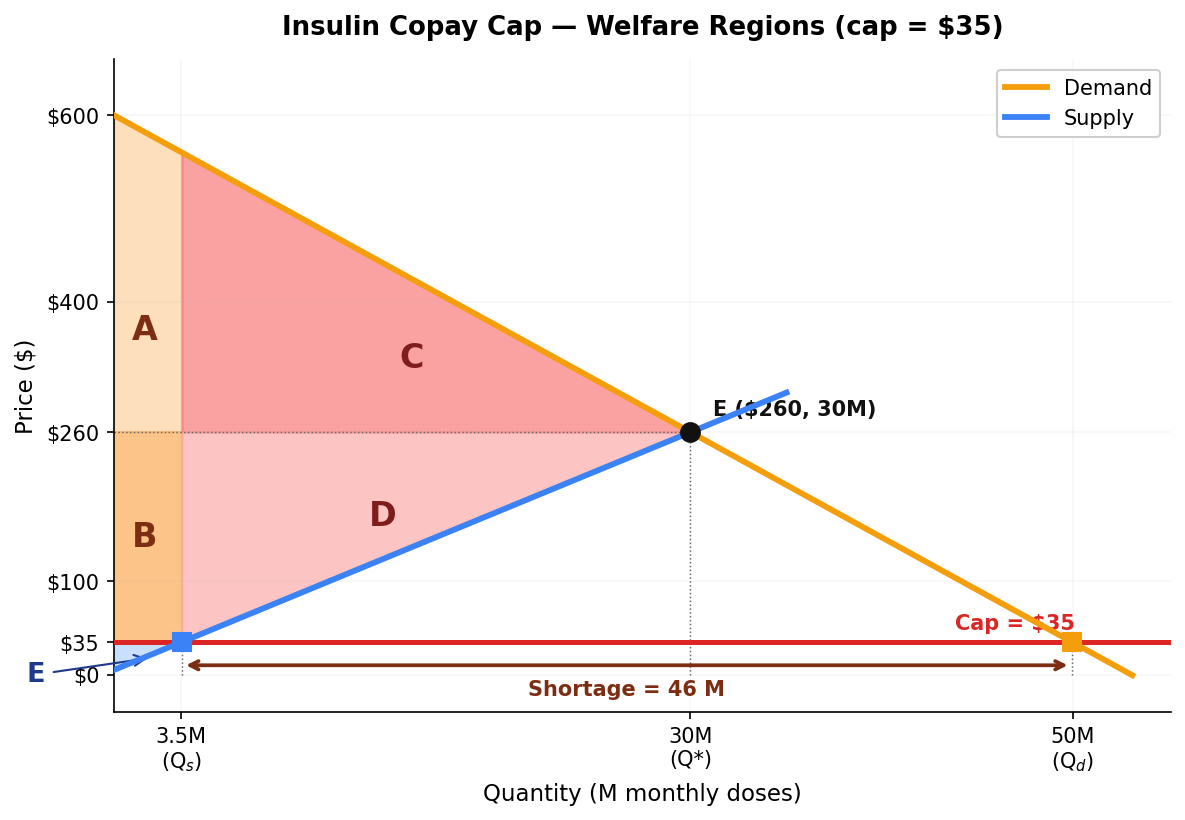
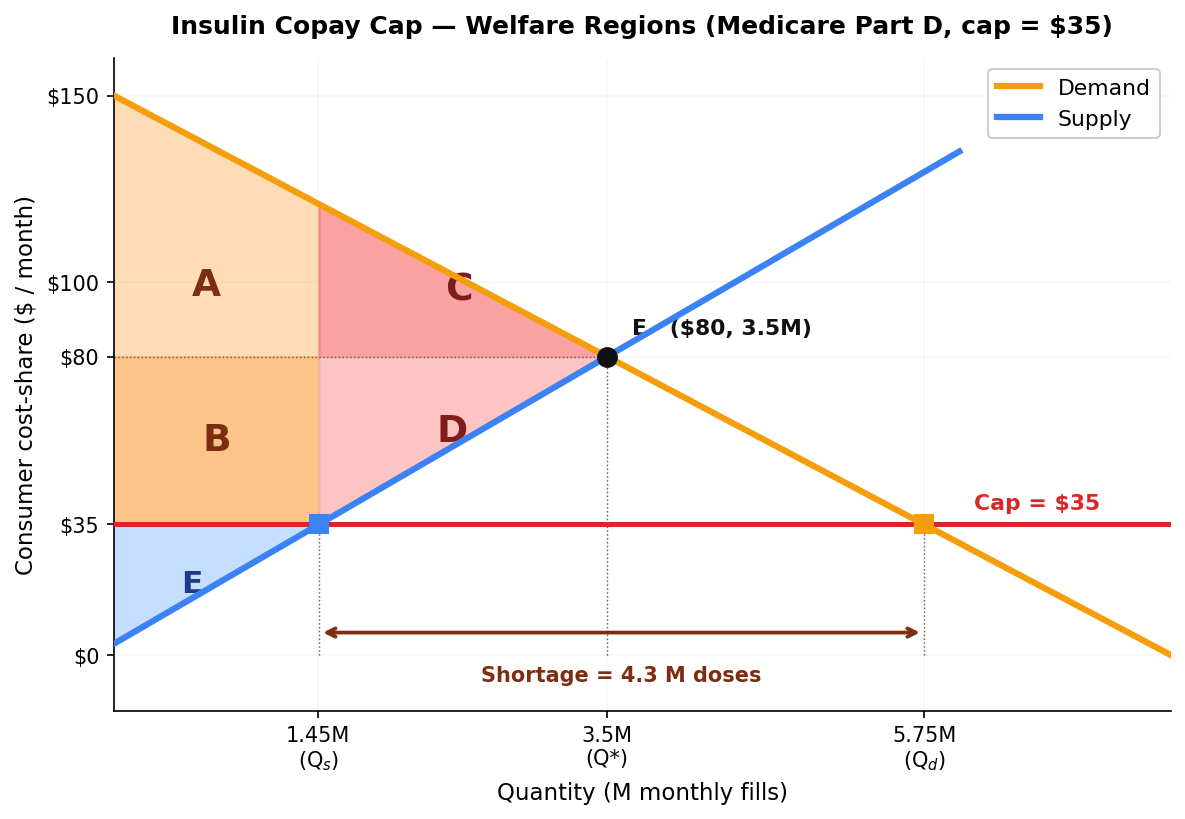
ch07: realistic insulin welfare numbers + page 16 SVG fix
Page 15 (welfare analysis): recalibrate figure_008 to a Medicare Part D
framing — Q in millions of monthly fills (was M doses), Eq ($80, 3.5M)
(was $260, 30M), cap $35 (unchanged). The new dollar scale is roughly
1/40th of the old one and matches reality:
  - Transfer B $65 M/mo  ≈  $785 M/yr   (CBO: $734 M/yr ✓)
  - DWL  $88 M/mo  ≈  $1.05 B/yr  (vs implausible $83 B/yr before)
  - CS rises +$24 M (transfer dominates lost CS) — the standard
    textbook 'consumers gain, producers lose, society pays DWL' story
  - PS collapses $135 M → $23 M
Welfare table on the slide updated to match; closing 'sanity check' line
flags the match with CBO. Region labels A–E unchanged.

Page 16 (Insulin Cap — elasticity correction): rewrite the SVG with
pre-computed exact geometry. Curves Supply (215,35)→(185,285) and
Demand (185,35)→(215,285) cross precisely at (200,160); cap at y=245
gives Q_s = x=190.4 and Q_d = x=209.6; the DWL triangle's right edge
(eq → supply∩cap) now lies exactly on the supply line, fixing the
visible misalignment from the prior version. Demand label moved from
the far left (x=155) to sit just left of the demand-line top (x=174)
with a small leader stroke pointing to the curve. Supply label
mirrored on the right. 'Real-world correction' callout now refers to
'~$1B/yr DWL' to match the page 15 number.

diff --git a/econ1116/ch07-government-intervention/index.html b/econ1116/ch07-government-intervention/index.html
@@ -357,43 +357,43 @@
     <tbody>
      <tr style="border-bottom: 1px solid #eee;">
       <td style="padding: 5px 8px;"><strong>CS</strong> &nbsp;<span style="color: var(--muted-color); font-size: 11pt;">= A+C &rarr; A+B</span></td>
-      <td style="text-align: right; padding: 5px 8px;">$5,100</td>
-      <td style="text-align: right; padding: 5px 8px;">$1,924</td>
-      <td style="text-align: right; padding: 5px 8px; color: var(--danger-color); font-weight: 700;">&minus;3,176</td>
+      <td style="text-align: right; padding: 5px 8px;">$123</td>
+      <td style="text-align: right; padding: 5px 8px;">$146</td>
+      <td style="text-align: right; padding: 5px 8px; color: var(--success-color); font-weight: 700;">+24</td>
      </tr>
      <tr style="border-bottom: 1px solid #eee;">
       <td style="padding: 5px 8px;"><strong>PS</strong> &nbsp;<span style="color: var(--muted-color); font-size: 11pt;">= B+D+E &rarr; E</span></td>
-      <td style="text-align: right; padding: 5px 8px;">$3,825</td>
-      <td style="text-align: right; padding: 5px 8px;">$53</td>
-      <td style="text-align: right; padding: 5px 8px; color: var(--danger-color); font-weight: 700;">&minus;3,772</td>
+      <td style="text-align: right; padding: 5px 8px;">$135</td>
+      <td style="text-align: right; padding: 5px 8px;">$23</td>
+      <td style="text-align: right; padding: 5px 8px; color: var(--danger-color); font-weight: 700;">&minus;112</td>
      </tr>
      <tr style="background: #fff7ed; border-bottom: 1px solid #eee;">
       <td style="padding: 6px 8px;"><strong>Total</strong></td>
-      <td style="text-align: right; padding: 6px 8px;">$8,925</td>
-      <td style="text-align: right; padding: 6px 8px;">$1,977</td>
-      <td style="text-align: right; padding: 6px 8px; color: var(--danger-color); font-weight: 700;">&minus;6,948</td>
+      <td style="text-align: right; padding: 6px 8px;">$258</td>
+      <td style="text-align: right; padding: 6px 8px;">$170</td>
+      <td style="text-align: right; padding: 6px 8px; color: var(--danger-color); font-weight: 700;">&minus;88</td>
      </tr>
      <tr style="background: #ffebee;">
       <td style="padding: 6px 8px;"><strong>DWL</strong> &nbsp;<span style="color: var(--muted-color); font-size: 11pt;">= C + D</span></td>
-      <td colspan="3" style="text-align: right; padding: 6px 8px; font-weight: 700; color: var(--danger-color); font-size: 13.5pt;">$6,949 M / month</td>
+      <td colspan="3" style="text-align: right; padding: 6px 8px; font-weight: 700; color: var(--danger-color); font-size: 13.5pt;">$88 M / mo &nbsp;&approx;&nbsp; $1.05 B / yr</td>
      </tr>
     </tbody>
    </table>
    <div style="background: #f8f6f3; border-radius: 8px; padding: 10px 14px; margin-top: 10px; border-left: 4px solid var(--accent-color);">
-    <p style="font-size: 11pt; font-weight: 700; color: var(--accent-color); text-transform: uppercase; letter-spacing: 0.05em; margin: 0 0 4px 0;">Region values</p>
+    <p style="font-size: 11pt; font-weight: 700; color: var(--accent-color); text-transform: uppercase; letter-spacing: 0.05em; margin: 0 0 4px 0;">Region values ($ M / month)</p>
     <ul style="font-size: 11.5pt; line-height: 1.4; margin: 0; padding-left: 18px;">
-     <li><strong>A</strong> &nbsp;CS that stays &nbsp;= $1,129</li>
-     <li><strong>B</strong> &nbsp;Transfer PS&rarr;CS &nbsp;= $794</li>
-     <li><strong>C</strong> &nbsp;Lost CS (DWL&#8321;) &nbsp;= $3,971</li>
-     <li><strong>D</strong> &nbsp;Lost PS (DWL&#8322;) &nbsp;= $2,978</li>
-     <li><strong>E</strong> &nbsp;PS that stays &nbsp;= $53</li>
+     <li><strong>A</strong> &nbsp;CS that stays &nbsp;= $81</li>
+     <li><strong>B</strong> &nbsp;Transfer PS&rarr;CS &nbsp;= $65 &nbsp;<span style="color: var(--muted-color); font-size: 10.5pt;">(&asymp; $785 M / yr)</span></li>
+     <li><strong>C</strong> &nbsp;Lost CS (DWL&#8321;) &nbsp;= $42</li>
+     <li><strong>D</strong> &nbsp;Lost PS (DWL&#8322;) &nbsp;= $46</li>
+     <li><strong>E</strong> &nbsp;PS that stays &nbsp;= $23</li>
     </ul>
    </div>
   </div>
  </div>
- <p style="font-size: 12pt; color: var(--muted-color); margin-top: 8px; font-style: italic; text-align: center;"><strong>The plot twist next slide:</strong> insulin&rsquo;s <em>actual</em> S &amp; D are nearly vertical. Real-world shortages turn out to be minimal &mdash; here&rsquo;s why.</p>
+ <p style="font-size: 11.5pt; color: var(--muted-color); margin-top: 8px; font-style: italic; text-align: center;"><strong>Sanity check:</strong> the transfer B &asymp; $785M/yr matches CBO&rsquo;s $734M/yr estimate of Medicare Part D insulin cap savings. <strong>Next slide:</strong> with realistic (near-vertical) elasticities, even this small DWL shrinks further.</p>
  <aside class="notes">
-  Walk-through: (1) Show regions A-E on the diagram. (2) Read CS_before = A + C = $5.1B. (3) After the $35 cap: trades drop from 30M to ~3.5M; the new CS is A + B (the transfer rectangle B was PS, now it's CS). (4) But CS DROPS overall because the lost-CS triangle C ($4B) dwarfs the transfer B ($0.8B). (5) PS collapses from $3.8B to $53M. (6) DWL = C + D ≈ $7B per month. (7) Punchline for next slide: this doomsday scenario requires textbook-elastic supply. Real insulin S&D are nearly vertical, so quantity barely moves and DWL is small &mdash; that's why a $35 cap doesn't actually crash the market.
+  Walk-through with REALISTIC Medicare Part D numbers: ~3.5M enrollees, $80 average pre-cap consumer cost-share, $35 cap (IRA 2023). (1) Identify regions A-E on the diagram. (2) CS_before = A + C = $123M. (3) After cap, trades fall from 3.5M to 1.45M; new CS = A + B because the rectangle B (was PS) becomes CS. (4) CS RISES by $24M (transfer B = $65M beats lost CS C = $42M). (5) PS COLLAPSES from $135M to $23M. (6) DWL = C + D = $88M/month ≈ $1B/year. (7) Sanity: the transfer ≈ $785M/yr matches CBO's $734M/yr estimate. Next slide reveals that real insulin S&D are even MORE inelastic than this, so even this DWL is overstated.
  </aside>
 </section>
 
@@ -406,7 +406,7 @@
    <div style="background: #fef9f3; border-radius: 10px; padding: 10px 16px; border-left: 4px solid var(--accent-color);">
     <p style="font-size: 11pt; color: var(--accent-color); font-weight: 700; text-transform: uppercase; letter-spacing: 1.5px; margin: 0 0 4px;"><i class="fa-solid fa-file-lines"></i>&nbsp; Real-world correction</p>
     <p style="font-size: 12.5pt; line-height: 1.45; margin: 0;">
-     The first-cut math predicted <strong>$7B DWL</strong>. The actual market reaction is <em>far</em> smaller. Why?
+     The first-cut math predicted <strong>~$1 B/yr DWL</strong>. The actual market reaction is <em>far</em> smaller. Why?
     </p>
    </div>
    <div style="background: #f8f6f3; border-radius: 8px; padding: 10px 16px; border-left: 4px solid var(--primary-color);">
@@ -430,50 +430,61 @@
   <!-- Right: SVG — VERY steep S & D (inelastic) → very SMALL DWL triangle (the pedagogical point) -->
   <div style="display: flex; flex-direction: column; justify-content: center;">
    <svg viewBox="0 0 380 320" style="width: 100%; height: 100%; max-height: 480px;" xmlns="http://www.w3.org/2000/svg" preserveAspectRatio="xMidYMid meet">
+    <!-- Geometry (all coordinates pre-computed for exact alignment):
+         Supply line  : (215, 35) → (185, 285)   slope = -8.333 (SVG)
+         Demand line  : (185, 35) → (215, 285)   slope = +8.333
+         Equilibrium  : (200, 160)
+         Cap line     : y = 245
+         Q_s          : x = 190.4 (where Supply crosses cap)
+         Q_d          : x = 209.6 (where Demand  crosses cap)
+         Demand at Q_s: y = 79.6  (where Demand crosses vertical at Q_s)
+         DWL vertices : (200, 160) eq, (190.4, 245) supply∩cap, (190.4, 79.6) demand∩Qs
+         Right edge of DWL therefore lies EXACTLY on the supply line (eq→supply∩cap).
+    -->
     <text x="200" y="22" font-size="14" font-weight="700" text-anchor="middle">Insulin Market &mdash; near-vertical S &amp; D</text>
     <!-- Axes -->
-    <line x1="55" y1="35" x2="55" y2="280" stroke="#222" stroke-width="1.5"/>
+    <line x1="55" y1="35" x2="55" y2="295" stroke="#222" stroke-width="1.5"/>
     <polygon points="55,27 51,37 59,37" fill="#222"/>
     <text x="48" y="37" font-size="11" font-weight="700" text-anchor="end">P</text>
-    <line x1="55" y1="280" x2="360" y2="280" stroke="#222" stroke-width="1.5"/>
-    <polygon points="366,280 356,276 356,284" fill="#222"/>
-    <text x="365" y="295" font-size="11" font-weight="700">Q</text>
+    <line x1="55" y1="295" x2="360" y2="295" stroke="#222" stroke-width="1.5"/>
+    <polygon points="366,295 356,291 356,299" fill="#222"/>
+    <text x="365" y="310" font-size="11" font-weight="700">Q</text>
     <!-- Price-cap horizontal line (red dashed) -->
-    <line x1="55" y1="220" x2="360" y2="220" stroke="#dc2626" stroke-width="1.6" stroke-dasharray="5,3"/>
-    <text x="355" y="215" font-size="11" font-weight="700" fill="#dc2626" text-anchor="end">price cap ($35)</text>
+    <line x1="55" y1="245" x2="360" y2="245" stroke="#dc2626" stroke-width="1.6" stroke-dasharray="5,3"/>
+    <text x="355" y="240" font-size="11" font-weight="700" fill="#dc2626" text-anchor="end">price cap ($35)</text>
     <!-- Eq dashed guides -->
-    <line x1="55" y1="115" x2="200" y2="115" stroke="#888" stroke-width="0.7" stroke-dasharray="2,2"/>
-    <line x1="200" y1="115" x2="200" y2="280" stroke="#888" stroke-width="0.7" stroke-dasharray="2,2"/>
-    <line x1="189" y1="220" x2="189" y2="280" stroke="#888" stroke-width="0.7" stroke-dasharray="2,2"/>
-    <line x1="211" y1="220" x2="211" y2="280" stroke="#888" stroke-width="0.7" stroke-dasharray="2,2"/>
-    <!-- DWL triangle (small needle): eq (200, 115), supply∩cap (189, 220), demand at Q_s above (189, 50) -->
-    <path d="M 200 115 L 189 220 L 189 50 Z" fill="#fca5a5" opacity="0.80" stroke="#dc2626" stroke-width="1.2"/>
+    <line x1="55" y1="160" x2="200" y2="160" stroke="#888" stroke-width="0.7" stroke-dasharray="2,2"/>
+    <line x1="200" y1="160" x2="200" y2="295" stroke="#888" stroke-width="0.7" stroke-dasharray="2,2"/>
+    <line x1="190.4" y1="245" x2="190.4" y2="295" stroke="#888" stroke-width="0.7" stroke-dasharray="2,2"/>
+    <line x1="209.6" y1="245" x2="209.6" y2="295" stroke="#888" stroke-width="0.7" stroke-dasharray="2,2"/>
+    <!-- DWL triangle — vertices align EXACTLY with the supply curve (right edge) and demand curve (top-right edge). -->
+    <path d="M 200 160 L 190.4 245 L 190.4 79.6 Z" fill="#fca5a5" opacity="0.80" stroke="#dc2626" stroke-width="1.2"/>
+    <!-- Supply line — drawn ON TOP of the DWL fill so the alignment is visible -->
+    <line x1="215" y1="35" x2="185" y2="285" stroke="#1e40af" stroke-width="3" />
+    <!-- Demand line -->
+    <line x1="185" y1="35" x2="215" y2="285" stroke="#b45309" stroke-width="3"/>
+    <!-- Demand & Supply labels — placed close to the TOP of each line -->
+    <text x="174" y="48" font-size="14" font-weight="700" fill="#b45309" text-anchor="end">Demand</text>
+    <line x1="176" y1="46" x2="183" y2="42" stroke="#b45309" stroke-width="1.2"/>
+    <text x="226" y="48" font-size="14" font-weight="700" fill="#1e40af">Supply</text>
+    <line x1="217" y1="42" x2="224" y2="46" stroke="#1e40af" stroke-width="1.2"/>
     <!-- DWL label with arrow pointing to the triangle -->
-    <text x="118" y="125" font-size="12" font-weight="700" fill="#991b1b">small DWL</text>
-    <line x1="158" y1="128" x2="187" y2="140" stroke="#991b1b" stroke-width="1.4"/>
-    <polygon points="191,140 184,136 184,144" fill="#991b1b"/>
-    <!-- Supply line (steep, from upper-right to lower-left) -->
-    <line x1="211" y1="40" x2="185" y2="280" stroke="#1e40af" stroke-width="3"/>
-    <!-- Demand line (steep, from upper-left to lower-right) -->
-    <line x1="190" y1="40" x2="218" y2="280" stroke="#b45309" stroke-width="3"/>
-    <!-- Demand & Supply labels — placed at the TOP where lines are clearly distinct -->
-    <text x="220" y="50" font-size="13" font-weight="700" fill="#1e40af">Supply</text>
-    <text x="155" y="50" font-size="13" font-weight="700" fill="#b45309" text-anchor="end">Demand</text>
+    <text x="118" y="155" font-size="13" font-weight="700" fill="#991b1b">small DWL</text>
+    <line x1="160" y1="158" x2="190" y2="165" stroke="#991b1b" stroke-width="1.4"/>
+    <polygon points="194,165 187,161 187,169" fill="#991b1b"/>
     <!-- Equilibrium dot -->
-    <circle cx="200" cy="115" r="5" fill="#111"/>
-    <text x="208" y="110" font-size="11" font-weight="700">E ($260, Q*)</text>
+    <circle cx="200" cy="160" r="5" fill="#111"/>
+    <text x="208" y="155" font-size="11" font-weight="700">E ($260, Q*)</text>
     <!-- Cap-intersection dots -->
-    <circle cx="189" cy="220" r="4" fill="#1e40af"/>
-    <circle cx="211" cy="220" r="4" fill="#b45309"/>
+    <circle cx="190.4" cy="245" r="4" fill="#1e40af"/>
+    <circle cx="209.6" cy="245" r="4" fill="#b45309"/>
     <!-- Price labels on y-axis -->
-    <text x="50" y="119" font-size="11" font-weight="700" text-anchor="end">$260</text>
-    <text x="50" y="224" font-size="11" font-weight="700" text-anchor="end">$35</text>
+    <text x="50" y="164" font-size="11" font-weight="700" text-anchor="end">$260</text>
+    <text x="50" y="249" font-size="11" font-weight="700" text-anchor="end">$35</text>
     <!-- Q labels -->
-    <text x="183" y="296" font-size="10" font-weight="700" text-anchor="end" fill="#1e40af">Q&#8347;</text>
-    <text x="200" y="296" font-size="10" font-weight="700" text-anchor="middle">Q*</text>
-    <text x="216" y="296" font-size="10" font-weight="700" text-anchor="start" fill="#b45309">Q&#8332;</text>
-    <!-- Caption -->
-    <text x="200" y="312" font-size="11" font-style="italic" fill="#666" text-anchor="middle">Q barely changes &mdash; tiny DWL even with a deep cap</text>
+    <text x="186" y="311" font-size="10" font-weight="700" text-anchor="end" fill="#1e40af">Q&#8347;</text>
+    <text x="200" y="311" font-size="10" font-weight="700" text-anchor="middle">Q*</text>
+    <text x="214" y="311" font-size="10" font-weight="700" text-anchor="start" fill="#b45309">Q&#8332;</text>
    </svg>
   </div>
  </div>

diff --git a/econ1116/ch07-government-intervention/presentation.html b/econ1116/ch07-government-intervention/presentation.html
@@ -357,43 +357,43 @@
     <tbody>
      <tr style="border-bottom: 1px solid #eee;">
       <td style="padding: 5px 8px;"><strong>CS</strong> &nbsp;<span style="color: var(--muted-color); font-size: 11pt;">= A+C &rarr; A+B</span></td>
-      <td style="text-align: right; padding: 5px 8px;">$5,100</td>
-      <td style="text-align: right; padding: 5px 8px;">$1,924</td>
-      <td style="text-align: right; padding: 5px 8px; color: var(--danger-color); font-weight: 700;">&minus;3,176</td>
+      <td style="text-align: right; padding: 5px 8px;">$123</td>
+      <td style="text-align: right; padding: 5px 8px;">$146</td>
+      <td style="text-align: right; padding: 5px 8px; color: var(--success-color); font-weight: 700;">+24</td>
      </tr>
      <tr style="border-bottom: 1px solid #eee;">
       <td style="padding: 5px 8px;"><strong>PS</strong> &nbsp;<span style="color: var(--muted-color); font-size: 11pt;">= B+D+E &rarr; E</span></td>
-      <td style="text-align: right; padding: 5px 8px;">$3,825</td>
-      <td style="text-align: right; padding: 5px 8px;">$53</td>
-      <td style="text-align: right; padding: 5px 8px; color: var(--danger-color); font-weight: 700;">&minus;3,772</td>
+      <td style="text-align: right; padding: 5px 8px;">$135</td>
+      <td style="text-align: right; padding: 5px 8px;">$23</td>
+      <td style="text-align: right; padding: 5px 8px; color: var(--danger-color); font-weight: 700;">&minus;112</td>
      </tr>
      <tr style="background: #fff7ed; border-bottom: 1px solid #eee;">
       <td style="padding: 6px 8px;"><strong>Total</strong></td>
-      <td style="text-align: right; padding: 6px 8px;">$8,925</td>
-      <td style="text-align: right; padding: 6px 8px;">$1,977</td>
-      <td style="text-align: right; padding: 6px 8px; color: var(--danger-color); font-weight: 700;">&minus;6,948</td>
+      <td style="text-align: right; padding: 6px 8px;">$258</td>
+      <td style="text-align: right; padding: 6px 8px;">$170</td>
+      <td style="text-align: right; padding: 6px 8px; color: var(--danger-color); font-weight: 700;">&minus;88</td>
      </tr>
      <tr style="background: #ffebee;">
       <td style="padding: 6px 8px;"><strong>DWL</strong> &nbsp;<span style="color: var(--muted-color); font-size: 11pt;">= C + D</span></td>
-      <td colspan="3" style="text-align: right; padding: 6px 8px; font-weight: 700; color: var(--danger-color); font-size: 13.5pt;">$6,949 M / month</td>
+      <td colspan="3" style="text-align: right; padding: 6px 8px; font-weight: 700; color: var(--danger-color); font-size: 13.5pt;">$88 M / mo &nbsp;&approx;&nbsp; $1.05 B / yr</td>
      </tr>
     </tbody>
    </table>
    <div style="background: #f8f6f3; border-radius: 8px; padding: 10px 14px; margin-top: 10px; border-left: 4px solid var(--accent-color);">
-    <p style="font-size: 11pt; font-weight: 700; color: var(--accent-color); text-transform: uppercase; letter-spacing: 0.05em; margin: 0 0 4px 0;">Region values</p>
+    <p style="font-size: 11pt; font-weight: 700; color: var(--accent-color); text-transform: uppercase; letter-spacing: 0.05em; margin: 0 0 4px 0;">Region values ($ M / month)</p>
     <ul style="font-size: 11.5pt; line-height: 1.4; margin: 0; padding-left: 18px;">
-     <li><strong>A</strong> &nbsp;CS that stays &nbsp;= $1,129</li>
-     <li><strong>B</strong> &nbsp;Transfer PS&rarr;CS &nbsp;= $794</li>
-     <li><strong>C</strong> &nbsp;Lost CS (DWL&#8321;) &nbsp;= $3,971</li>
-     <li><strong>D</strong> &nbsp;Lost PS (DWL&#8322;) &nbsp;= $2,978</li>
-     <li><strong>E</strong> &nbsp;PS that stays &nbsp;= $53</li>
+     <li><strong>A</strong> &nbsp;CS that stays &nbsp;= $81</li>
+     <li><strong>B</strong> &nbsp;Transfer PS&rarr;CS &nbsp;= $65 &nbsp;<span style="color: var(--muted-color); font-size: 10.5pt;">(&asymp; $785 M / yr)</span></li>
+     <li><strong>C</strong> &nbsp;Lost CS (DWL&#8321;) &nbsp;= $42</li>
+     <li><strong>D</strong> &nbsp;Lost PS (DWL&#8322;) &nbsp;= $46</li>
+     <li><strong>E</strong> &nbsp;PS that stays &nbsp;= $23</li>
     </ul>
    </div>
   </div>
  </div>
- <p style="font-size: 12pt; color: var(--muted-color); margin-top: 8px; font-style: italic; text-align: center;"><strong>The plot twist next slide:</strong> insulin&rsquo;s <em>actual</em> S &amp; D are nearly vertical. Real-world shortages turn out to be minimal &mdash; here&rsquo;s why.</p>
+ <p style="font-size: 11.5pt; color: var(--muted-color); margin-top: 8px; font-style: italic; text-align: center;"><strong>Sanity check:</strong> the transfer B &asymp; $785M/yr matches CBO&rsquo;s $734M/yr estimate of Medicare Part D insulin cap savings. <strong>Next slide:</strong> with realistic (near-vertical) elasticities, even this small DWL shrinks further.</p>
  <aside class="notes">
-  Walk-through: (1) Show regions A-E on the diagram. (2) Read CS_before = A + C = $5.1B. (3) After the $35 cap: trades drop from 30M to ~3.5M; the new CS is A + B (the transfer rectangle B was PS, now it's CS). (4) But CS DROPS overall because the lost-CS triangle C ($4B) dwarfs the transfer B ($0.8B). (5) PS collapses from $3.8B to $53M. (6) DWL = C + D ≈ $7B per month. (7) Punchline for next slide: this doomsday scenario requires textbook-elastic supply. Real insulin S&D are nearly vertical, so quantity barely moves and DWL is small &mdash; that's why a $35 cap doesn't actually crash the market.
+  Walk-through with REALISTIC Medicare Part D numbers: ~3.5M enrollees, $80 average pre-cap consumer cost-share, $35 cap (IRA 2023). (1) Identify regions A-E on the diagram. (2) CS_before = A + C = $123M. (3) After cap, trades fall from 3.5M to 1.45M; new CS = A + B because the rectangle B (was PS) becomes CS. (4) CS RISES by $24M (transfer B = $65M beats lost CS C = $42M). (5) PS COLLAPSES from $135M to $23M. (6) DWL = C + D = $88M/month ≈ $1B/year. (7) Sanity: the transfer ≈ $785M/yr matches CBO's $734M/yr estimate. Next slide reveals that real insulin S&D are even MORE inelastic than this, so even this DWL is overstated.
  </aside>
 </section>
 
@@ -406,7 +406,7 @@
    <div style="background: #fef9f3; border-radius: 10px; padding: 10px 16px; border-left: 4px solid var(--accent-color);">
     <p style="font-size: 11pt; color: var(--accent-color); font-weight: 700; text-transform: uppercase; letter-spacing: 1.5px; margin: 0 0 4px;"><i class="fa-solid fa-file-lines"></i>&nbsp; Real-world correction</p>
     <p style="font-size: 12.5pt; line-height: 1.45; margin: 0;">
-     The first-cut math predicted <strong>$7B DWL</strong>. The actual market reaction is <em>far</em> smaller. Why?
+     The first-cut math predicted <strong>~$1 B/yr DWL</strong>. The actual market reaction is <em>far</em> smaller. Why?
     </p>
    </div>
    <div style="background: #f8f6f3; border-radius: 8px; padding: 10px 16px; border-left: 4px solid var(--primary-color);">
@@ -430,50 +430,61 @@
   <!-- Right: SVG — VERY steep S & D (inelastic) → very SMALL DWL triangle (the pedagogical point) -->
   <div style="display: flex; flex-direction: column; justify-content: center;">
    <svg viewBox="0 0 380 320" style="width: 100%; height: 100%; max-height: 480px;" xmlns="http://www.w3.org/2000/svg" preserveAspectRatio="xMidYMid meet">
+    <!-- Geometry (all coordinates pre-computed for exact alignment):
+         Supply line  : (215, 35) → (185, 285)   slope = -8.333 (SVG)
+         Demand line  : (185, 35) → (215, 285)   slope = +8.333
+         Equilibrium  : (200, 160)
+         Cap line     : y = 245
+         Q_s          : x = 190.4 (where Supply crosses cap)
+         Q_d          : x = 209.6 (where Demand  crosses cap)
+         Demand at Q_s: y = 79.6  (where Demand crosses vertical at Q_s)
+         DWL vertices : (200, 160) eq, (190.4, 245) supply∩cap, (190.4, 79.6) demand∩Qs
+         Right edge of DWL therefore lies EXACTLY on the supply line (eq→supply∩cap).
+    -->
     <text x="200" y="22" font-size="14" font-weight="700" text-anchor="middle">Insulin Market &mdash; near-vertical S &amp; D</text>
     <!-- Axes -->
-    <line x1="55" y1="35" x2="55" y2="280" stroke="#222" stroke-width="1.5"/>
+    <line x1="55" y1="35" x2="55" y2="295" stroke="#222" stroke-width="1.5"/>
     <polygon points="55,27 51,37 59,37" fill="#222"/>
     <text x="48" y="37" font-size="11" font-weight="700" text-anchor="end">P</text>
-    <line x1="55" y1="280" x2="360" y2="280" stroke="#222" stroke-width="1.5"/>
-    <polygon points="366,280 356,276 356,284" fill="#222"/>
-    <text x="365" y="295" font-size="11" font-weight="700">Q</text>
+    <line x1="55" y1="295" x2="360" y2="295" stroke="#222" stroke-width="1.5"/>
+    <polygon points="366,295 356,291 356,299" fill="#222"/>
+    <text x="365" y="310" font-size="11" font-weight="700">Q</text>
     <!-- Price-cap horizontal line (red dashed) -->
-    <line x1="55" y1="220" x2="360" y2="220" stroke="#dc2626" stroke-width="1.6" stroke-dasharray="5,3"/>
-    <text x="355" y="215" font-size="11" font-weight="700" fill="#dc2626" text-anchor="end">price cap ($35)</text>
+    <line x1="55" y1="245" x2="360" y2="245" stroke="#dc2626" stroke-width="1.6" stroke-dasharray="5,3"/>
+    <text x="355" y="240" font-size="11" font-weight="700" fill="#dc2626" text-anchor="end">price cap ($35)</text>
     <!-- Eq dashed guides -->
-    <line x1="55" y1="115" x2="200" y2="115" stroke="#888" stroke-width="0.7" stroke-dasharray="2,2"/>
-    <line x1="200" y1="115" x2="200" y2="280" stroke="#888" stroke-width="0.7" stroke-dasharray="2,2"/>
-    <line x1="189" y1="220" x2="189" y2="280" stroke="#888" stroke-width="0.7" stroke-dasharray="2,2"/>
-    <line x1="211" y1="220" x2="211" y2="280" stroke="#888" stroke-width="0.7" stroke-dasharray="2,2"/>
-    <!-- DWL triangle (small needle): eq (200, 115), supply∩cap (189, 220), demand at Q_s above (189, 50) -->
-    <path d="M 200 115 L 189 220 L 189 50 Z" fill="#fca5a5" opacity="0.80" stroke="#dc2626" stroke-width="1.2"/>
+    <line x1="55" y1="160" x2="200" y2="160" stroke="#888" stroke-width="0.7" stroke-dasharray="2,2"/>
+    <line x1="200" y1="160" x2="200" y2="295" stroke="#888" stroke-width="0.7" stroke-dasharray="2,2"/>
+    <line x1="190.4" y1="245" x2="190.4" y2="295" stroke="#888" stroke-width="0.7" stroke-dasharray="2,2"/>
+    <line x1="209.6" y1="245" x2="209.6" y2="295" stroke="#888" stroke-width="0.7" stroke-dasharray="2,2"/>
+    <!-- DWL triangle — vertices align EXACTLY with the supply curve (right edge) and demand curve (top-right edge). -->
+    <path d="M 200 160 L 190.4 245 L 190.4 79.6 Z" fill="#fca5a5" opacity="0.80" stroke="#dc2626" stroke-width="1.2"/>
+    <!-- Supply line — drawn ON TOP of the DWL fill so the alignment is visible -->
+    <line x1="215" y1="35" x2="185" y2="285" stroke="#1e40af" stroke-width="3" />
+    <!-- Demand line -->
+    <line x1="185" y1="35" x2="215" y2="285" stroke="#b45309" stroke-width="3"/>
+    <!-- Demand & Supply labels — placed close to the TOP of each line -->
+    <text x="174" y="48" font-size="14" font-weight="700" fill="#b45309" text-anchor="end">Demand</text>
+    <line x1="176" y1="46" x2="183" y2="42" stroke="#b45309" stroke-width="1.2"/>
+    <text x="226" y="48" font-size="14" font-weight="700" fill="#1e40af">Supply</text>
+    <line x1="217" y1="42" x2="224" y2="46" stroke="#1e40af" stroke-width="1.2"/>
     <!-- DWL label with arrow pointing to the triangle -->
-    <text x="118" y="125" font-size="12" font-weight="700" fill="#991b1b">small DWL</text>
-    <line x1="158" y1="128" x2="187" y2="140" stroke="#991b1b" stroke-width="1.4"/>
-    <polygon points="191,140 184,136 184,144" fill="#991b1b"/>
-    <!-- Supply line (steep, from upper-right to lower-left) -->
-    <line x1="211" y1="40" x2="185" y2="280" stroke="#1e40af" stroke-width="3"/>
-    <!-- Demand line (steep, from upper-left to lower-right) -->
-    <line x1="190" y1="40" x2="218" y2="280" stroke="#b45309" stroke-width="3"/>
-    <!-- Demand & Supply labels — placed at the TOP where lines are clearly distinct -->
-    <text x="220" y="50" font-size="13" font-weight="700" fill="#1e40af">Supply</text>
-    <text x="155" y="50" font-size="13" font-weight="700" fill="#b45309" text-anchor="end">Demand</text>
+    <text x="118" y="155" font-size="13" font-weight="700" fill="#991b1b">small DWL</text>
+    <line x1="160" y1="158" x2="190" y2="165" stroke="#991b1b" stroke-width="1.4"/>
+    <polygon points="194,165 187,161 187,169" fill="#991b1b"/>
     <!-- Equilibrium dot -->
-    <circle cx="200" cy="115" r="5" fill="#111"/>
-    <text x="208" y="110" font-size="11" font-weight="700">E ($260, Q*)</text>
+    <circle cx="200" cy="160" r="5" fill="#111"/>
+    <text x="208" y="155" font-size="11" font-weight="700">E ($260, Q*)</text>
     <!-- Cap-intersection dots -->
-    <circle cx="189" cy="220" r="4" fill="#1e40af"/>
-    <circle cx="211" cy="220" r="4" fill="#b45309"/>
+    <circle cx="190.4" cy="245" r="4" fill="#1e40af"/>
+    <circle cx="209.6" cy="245" r="4" fill="#b45309"/>
     <!-- Price labels on y-axis -->
-    <text x="50" y="119" font-size="11" font-weight="700" text-anchor="end">$260</text>
-    <text x="50" y="224" font-size="11" font-weight="700" text-anchor="end">$35</text>
+    <text x="50" y="164" font-size="11" font-weight="700" text-anchor="end">$260</text>
+    <text x="50" y="249" font-size="11" font-weight="700" text-anchor="end">$35</text>
     <!-- Q labels -->
-    <text x="183" y="296" font-size="10" font-weight="700" text-anchor="end" fill="#1e40af">Q&#8347;</text>
-    <text x="200" y="296" font-size="10" font-weight="700" text-anchor="middle">Q*</text>
-    <text x="216" y="296" font-size="10" font-weight="700" text-anchor="start" fill="#b45309">Q&#8332;</text>
-    <!-- Caption -->
-    <text x="200" y="312" font-size="11" font-style="italic" fill="#666" text-anchor="middle">Q barely changes &mdash; tiny DWL even with a deep cap</text>
+    <text x="186" y="311" font-size="10" font-weight="700" text-anchor="end" fill="#1e40af">Q&#8347;</text>
+    <text x="200" y="311" font-size="10" font-weight="700" text-anchor="middle">Q*</text>
+    <text x="214" y="311" font-size="10" font-weight="700" text-anchor="start" fill="#b45309">Q&#8332;</text>
    </svg>
   </div>
  </div>
